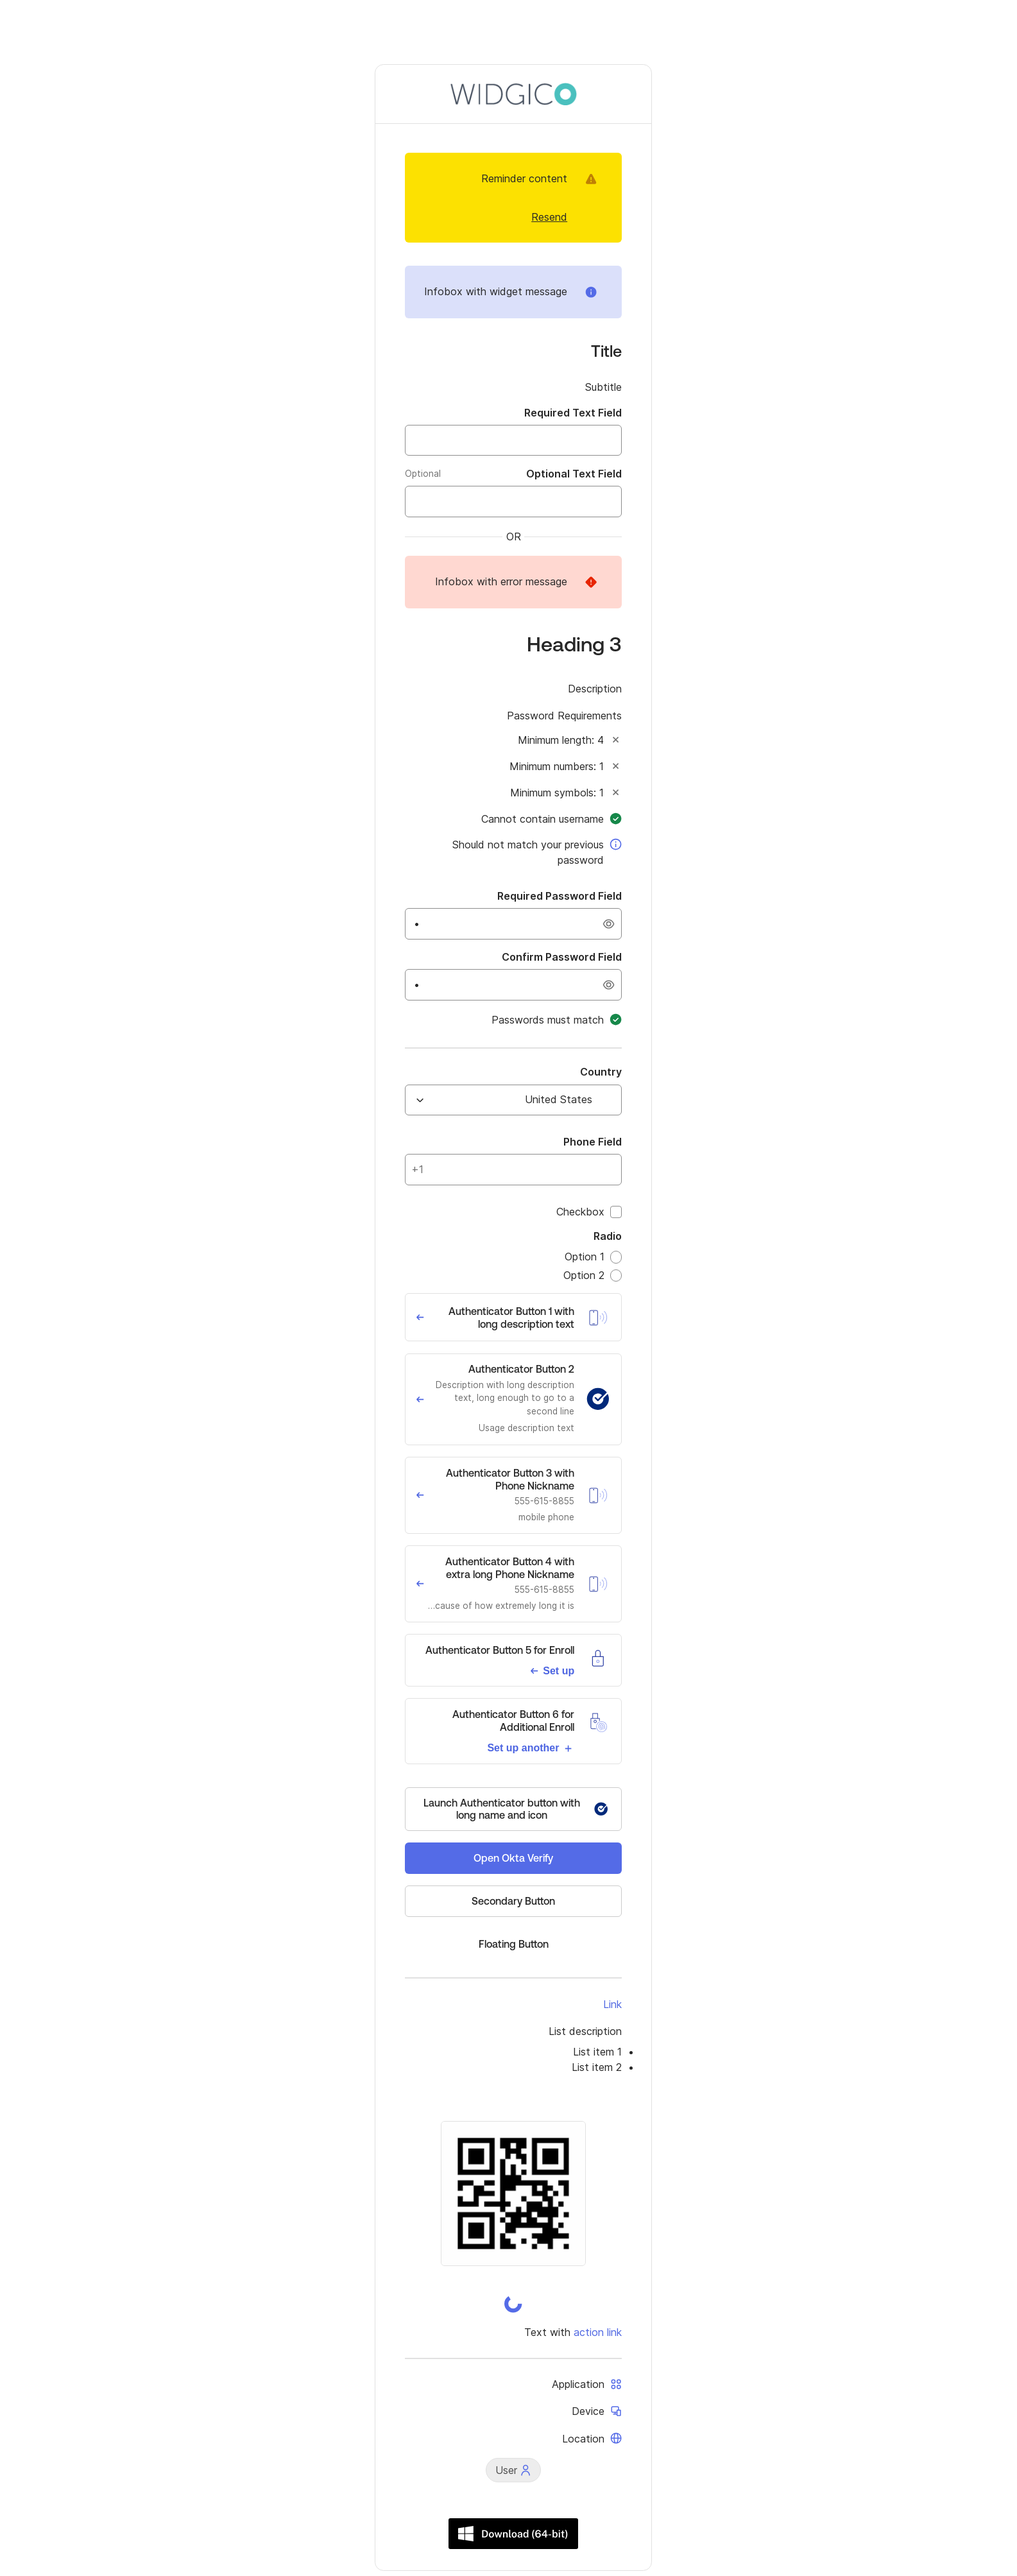
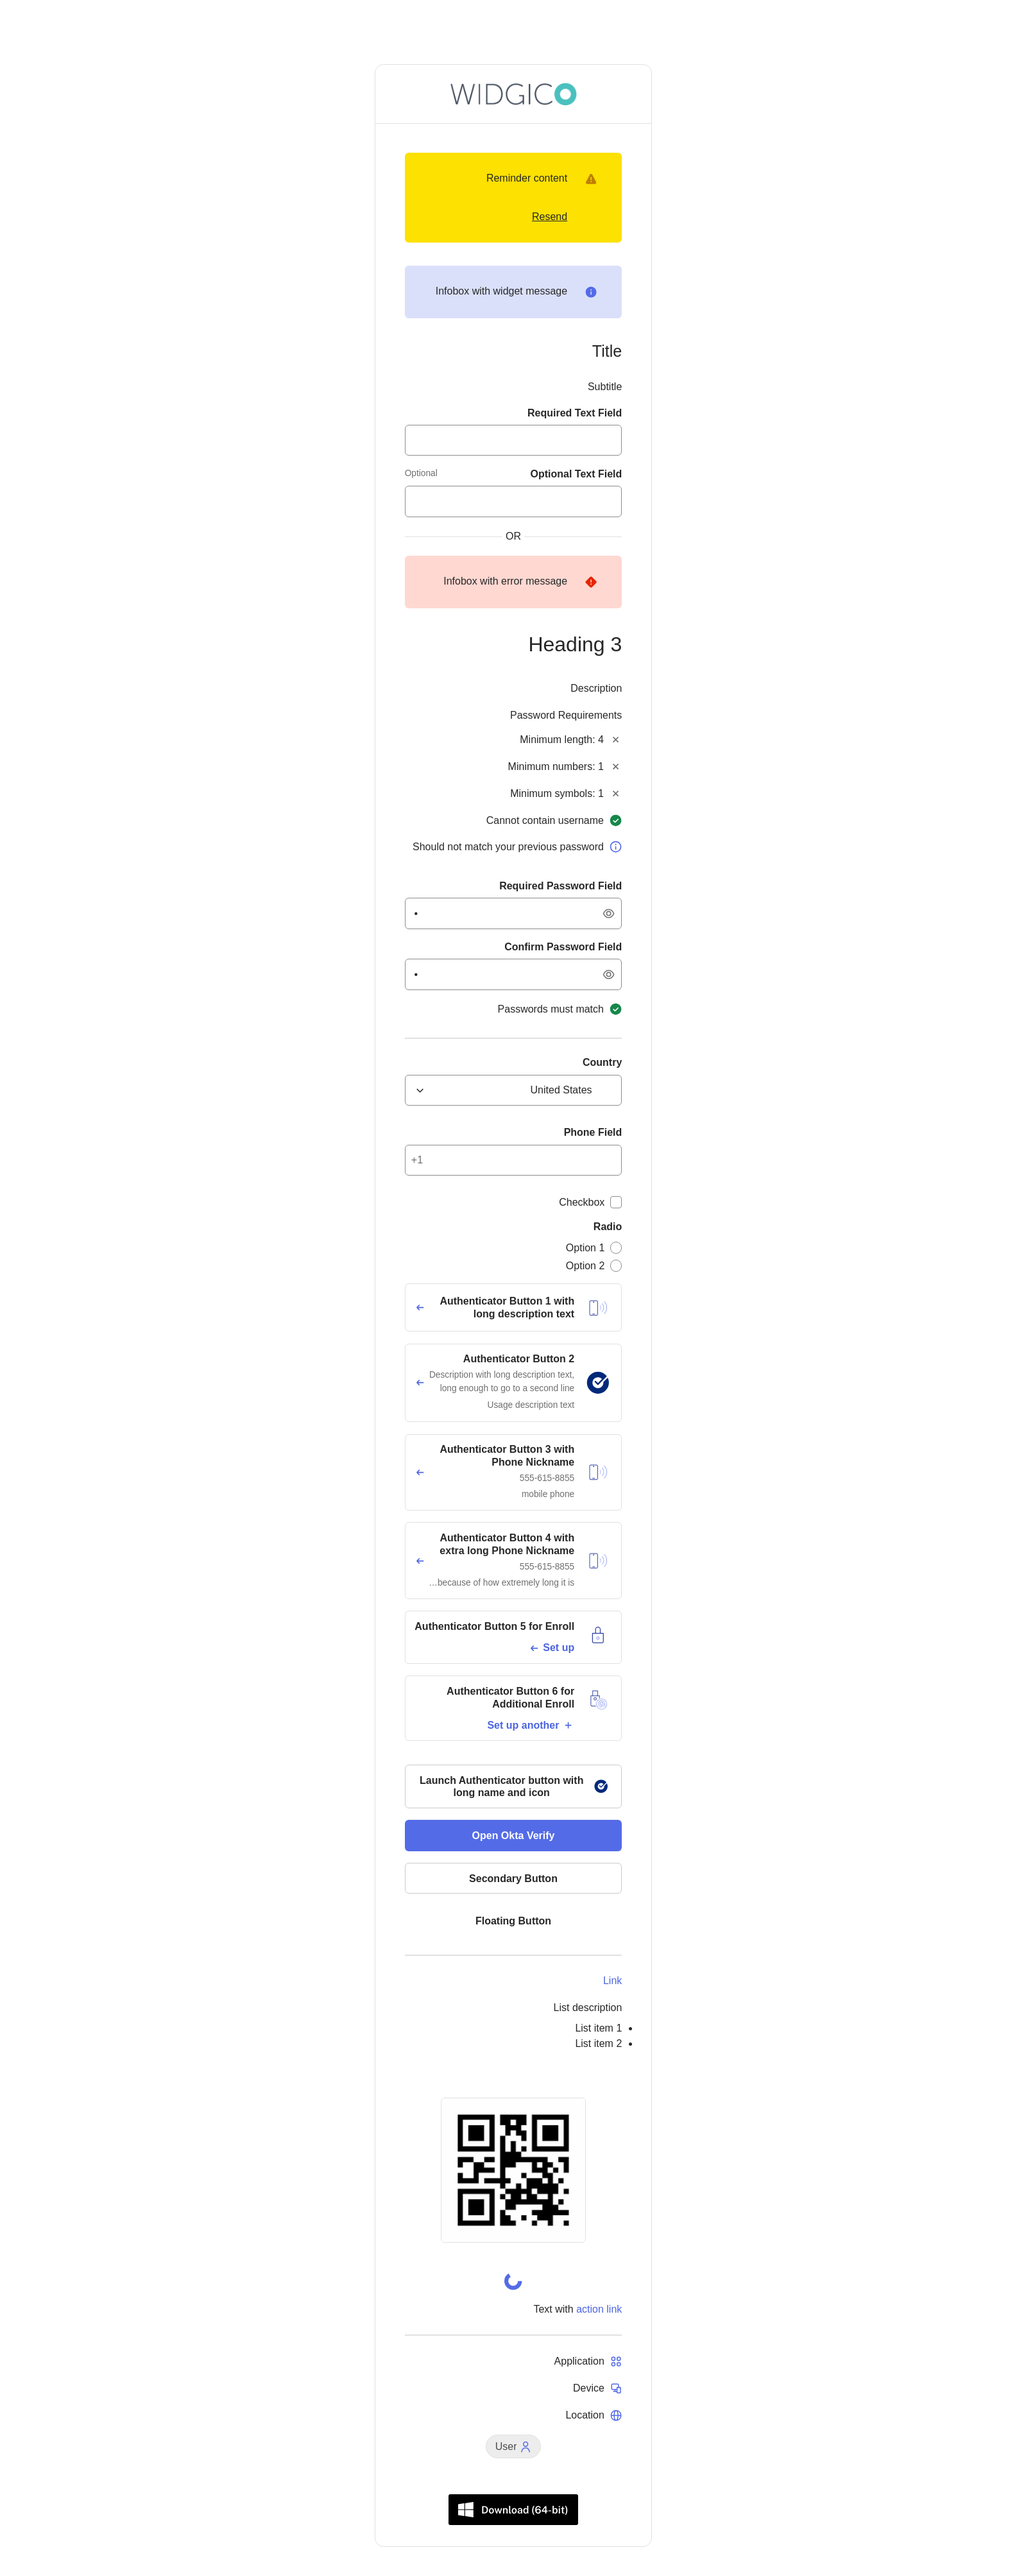
revert: font change #3641 (#3653)
OKTA-738483 revert: font change #3641
bump pkg version
update screenshot

diff --git a/assets/sass/okta-theme.scss b/assets/sass/okta-theme.scss
@@ -2,7 +2,7 @@
 @use 'common/shared/helpers/mixins';
 
 .skip-to-content-link {
-  font-family: "proxima nova", "montserrat-okta", Arial, Helvetica, sans-serif;
+  font-family: Aeonik, Inter, "montserrat-okta", Arial, Helvetica, sans-serif;
   text-decoration: none;
   position: absolute;
   top: 0;

diff --git a/assets/sass/_variables.scss b/assets/sass/_variables.scss
@@ -1,5 +1,5 @@
 // Page Properties
-$fonts: 'proxima nova', 'montserrat-okta', Arial, Helvetica, sans-serif;
+$fonts: Aeonik, Inter, 'montserrat-okta', Arial, Helvetica, sans-serif;
 $default-border-radius: 3px;
 $container-width: 400px;
 $container-min-width: 300px;
